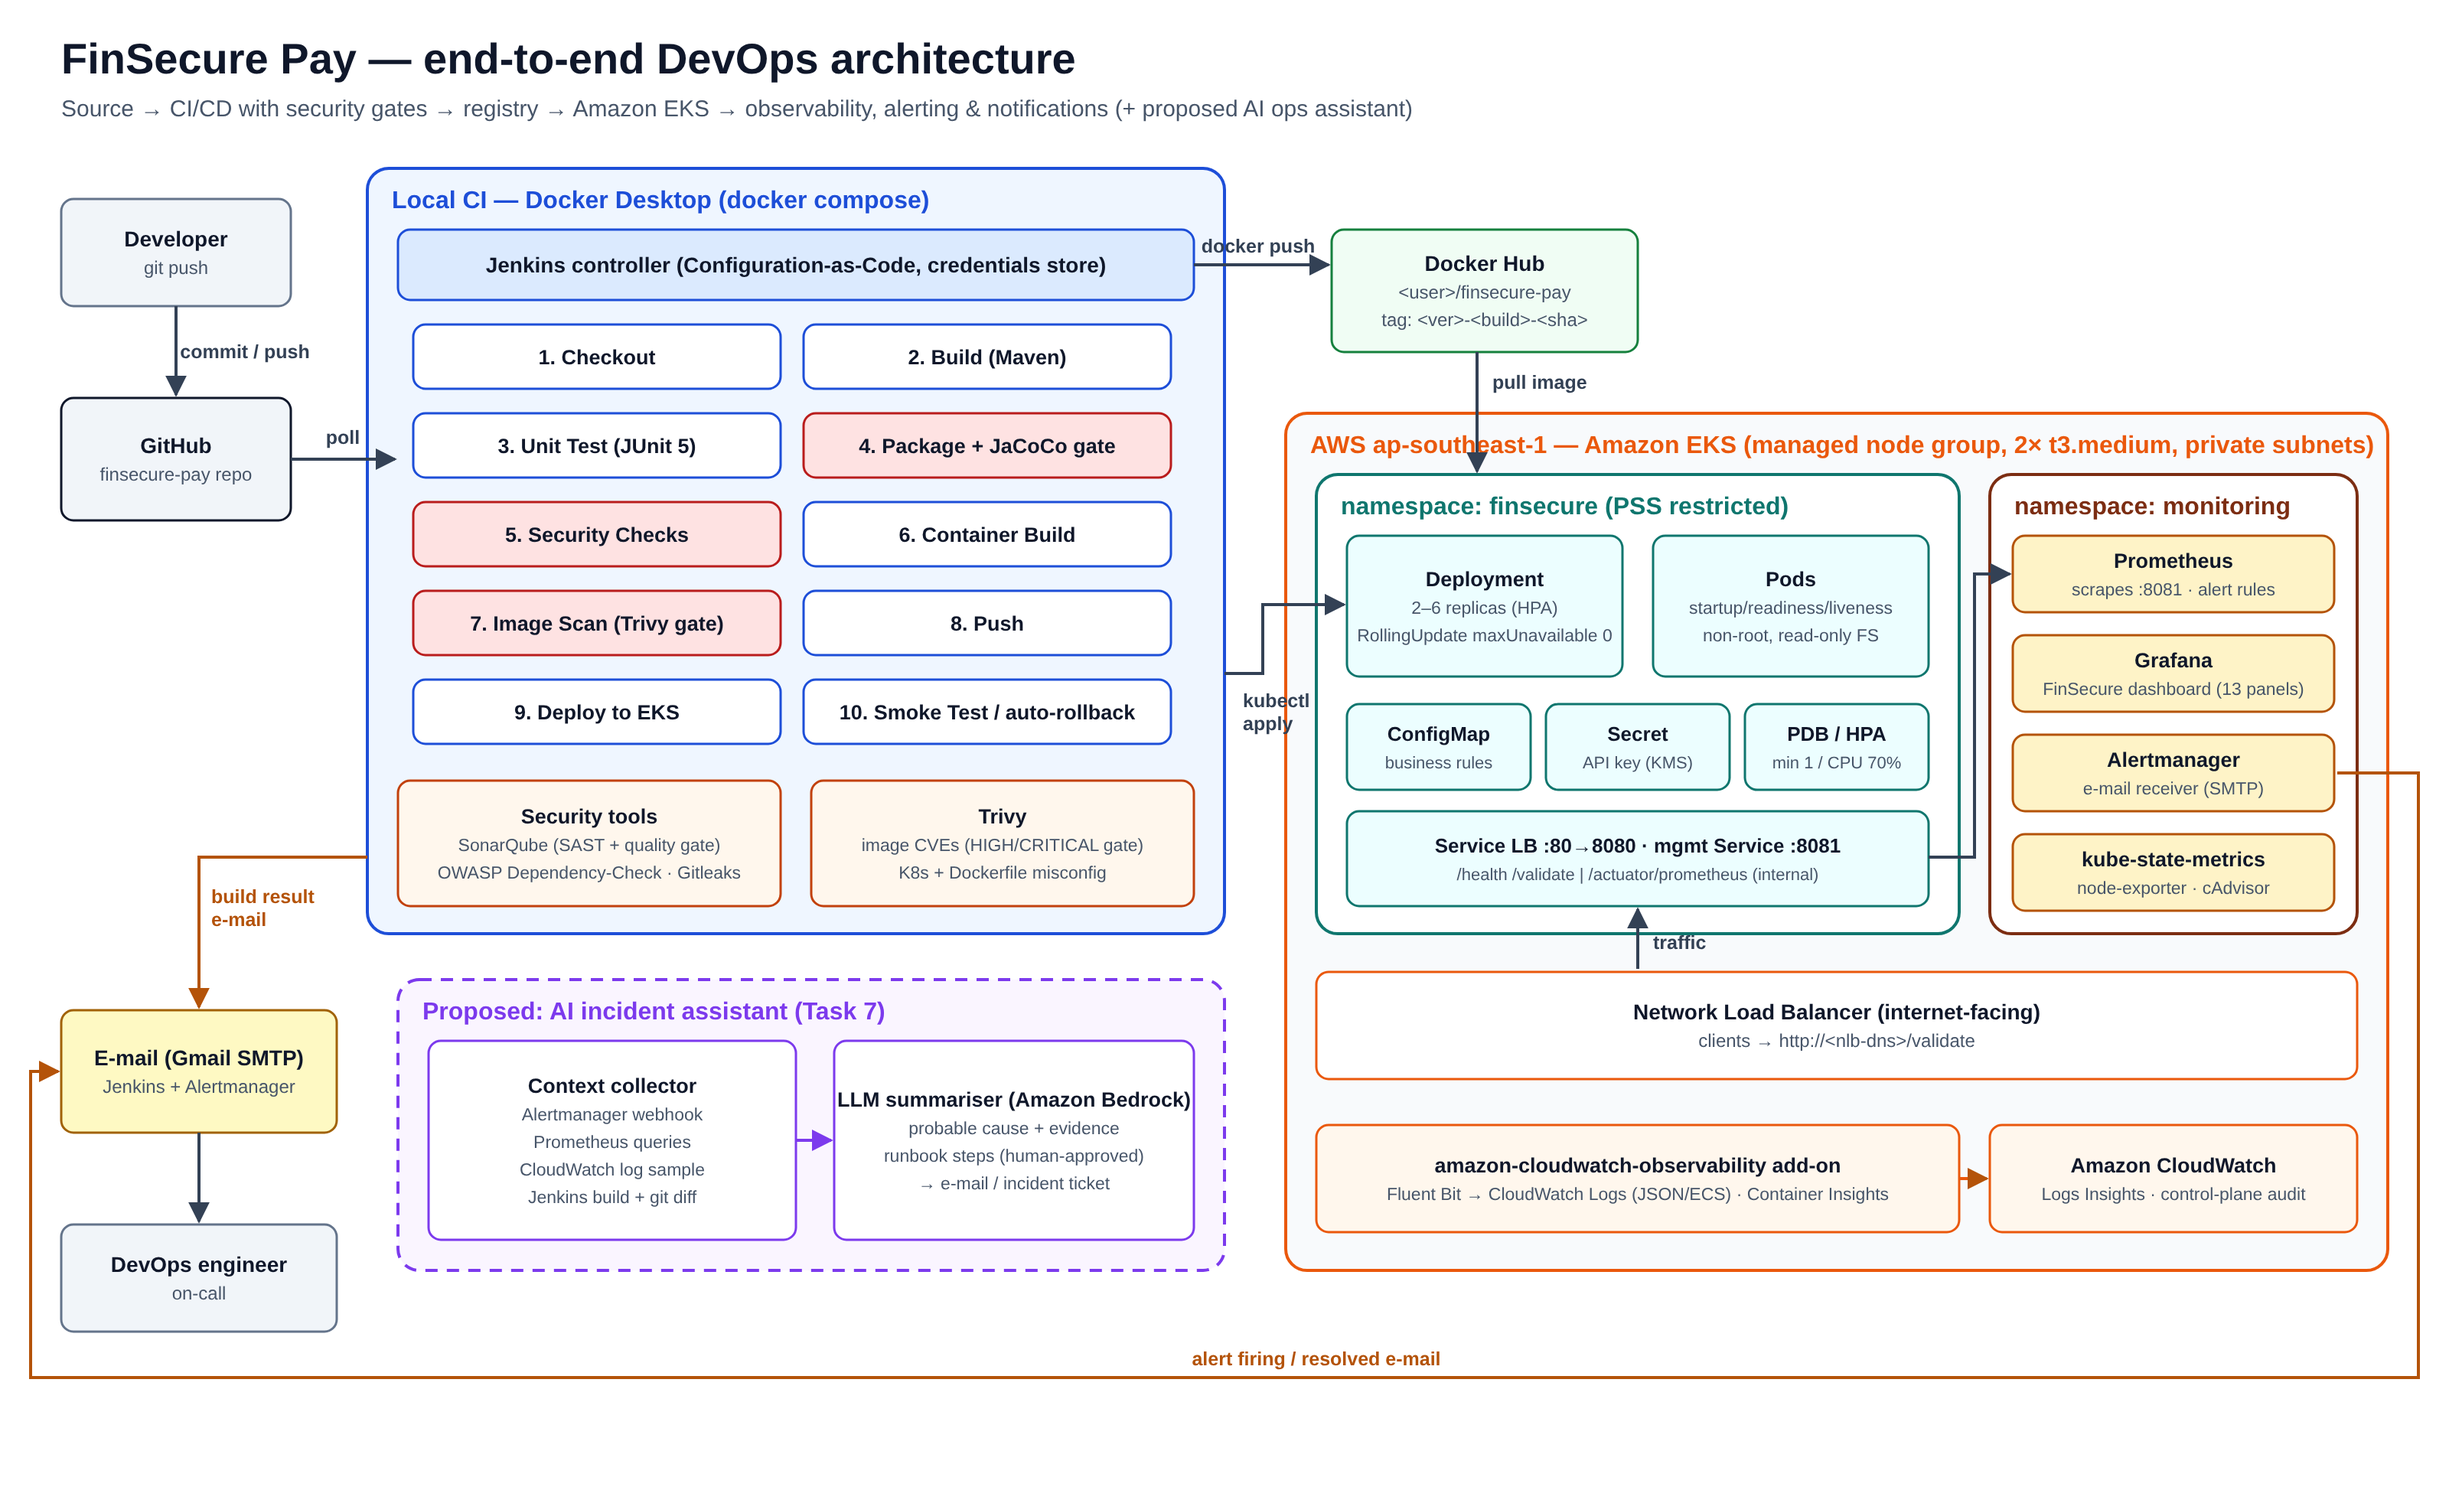
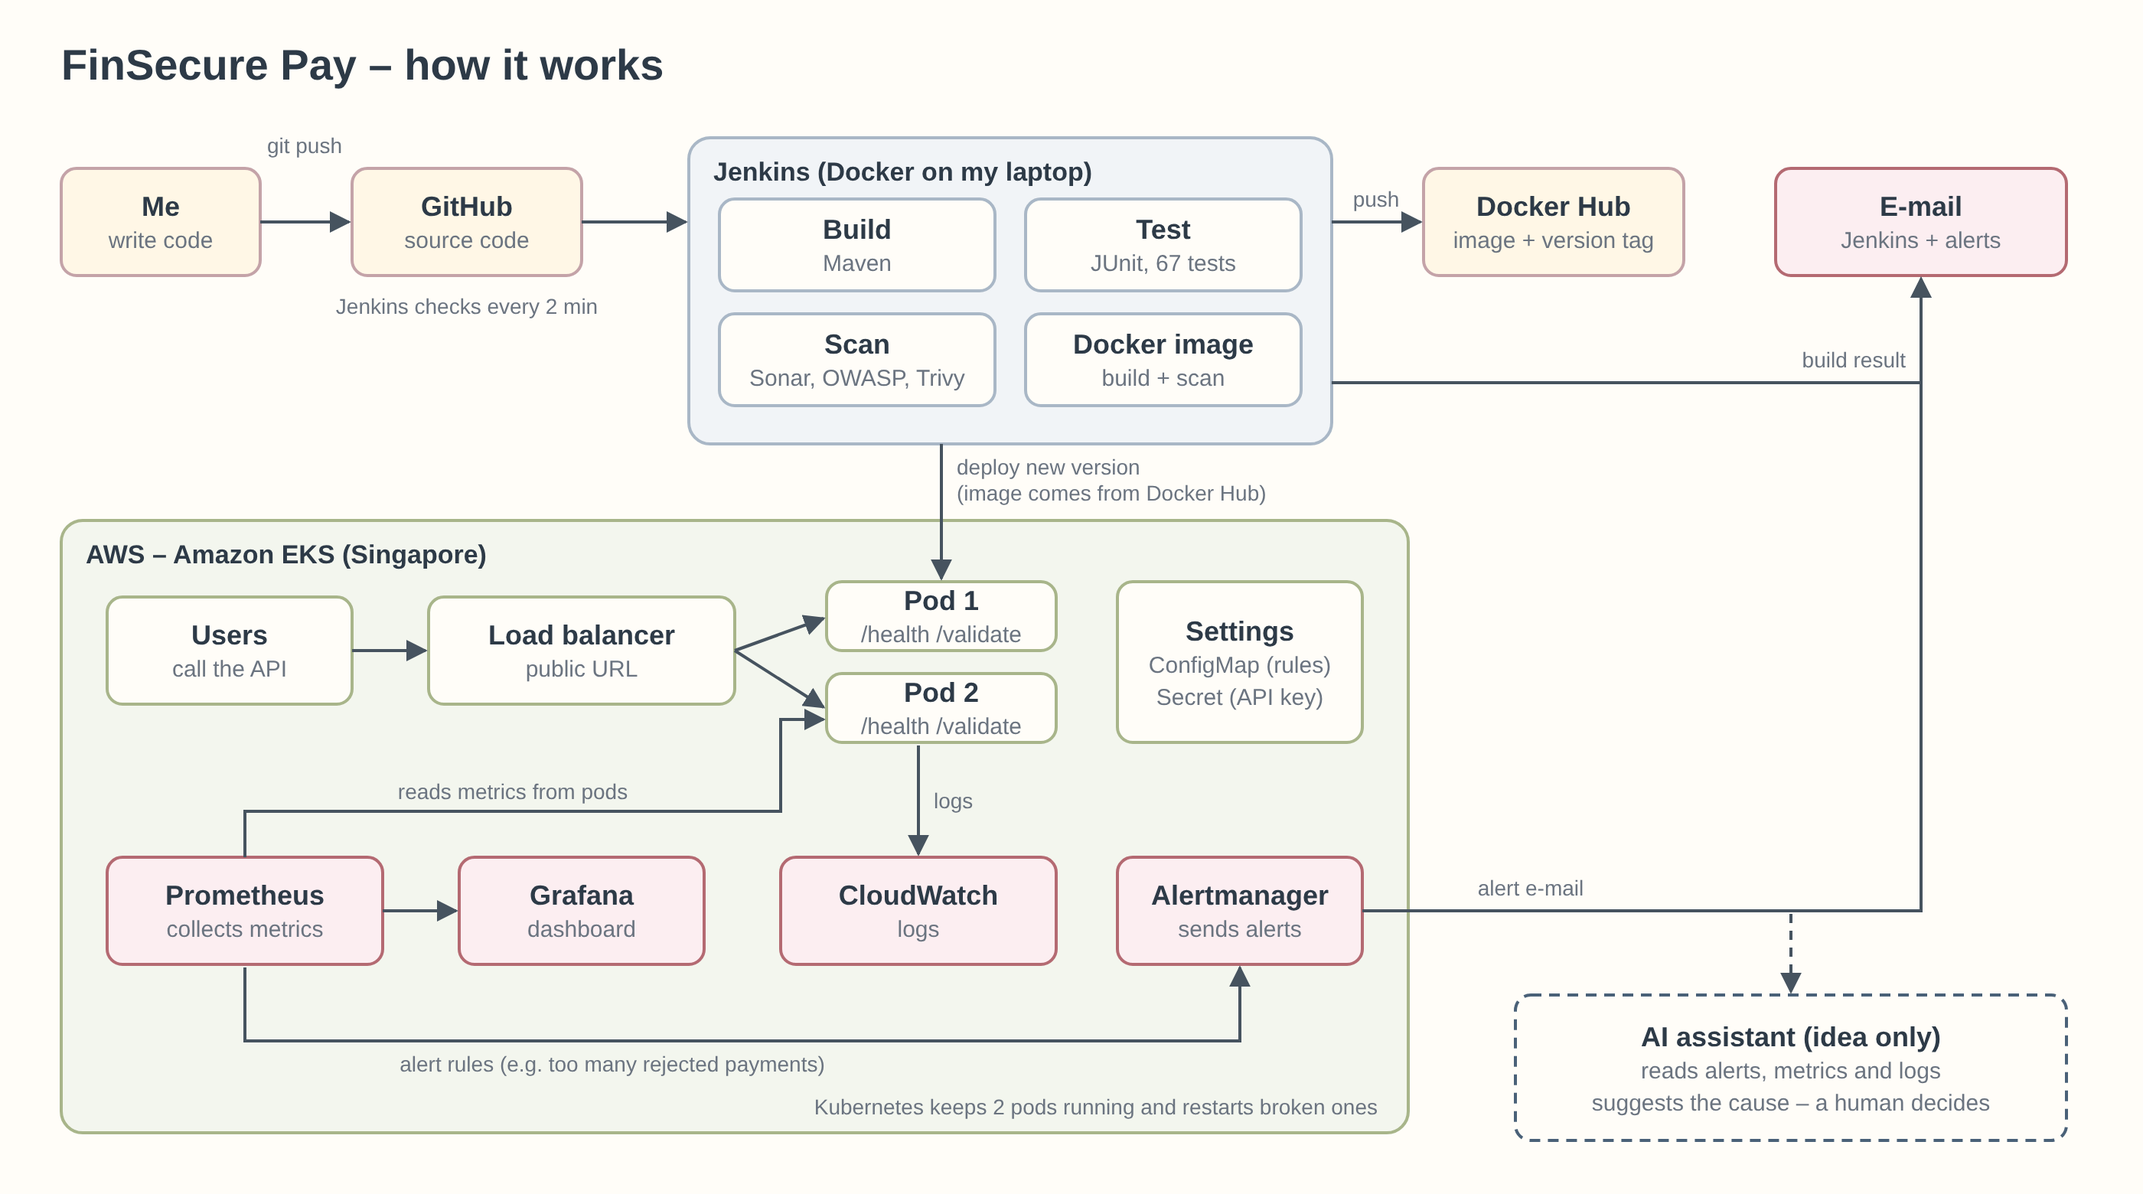
docs: simpler architecture diagram

diff --git a/docs/DESIGN.md b/docs/DESIGN.md
@@ -1,6 +1,6 @@
 # FinSecure Pay — Design Document
 
-Author: HAN · October 2026
+Author: Mayurint · October 2026
 
 This document explains how I built and deployed the FinSecure Pay transaction validation API: the architecture, why I chose each tool, how the system is secured, how it recovers from failures, and one AI idea for operations.
 
